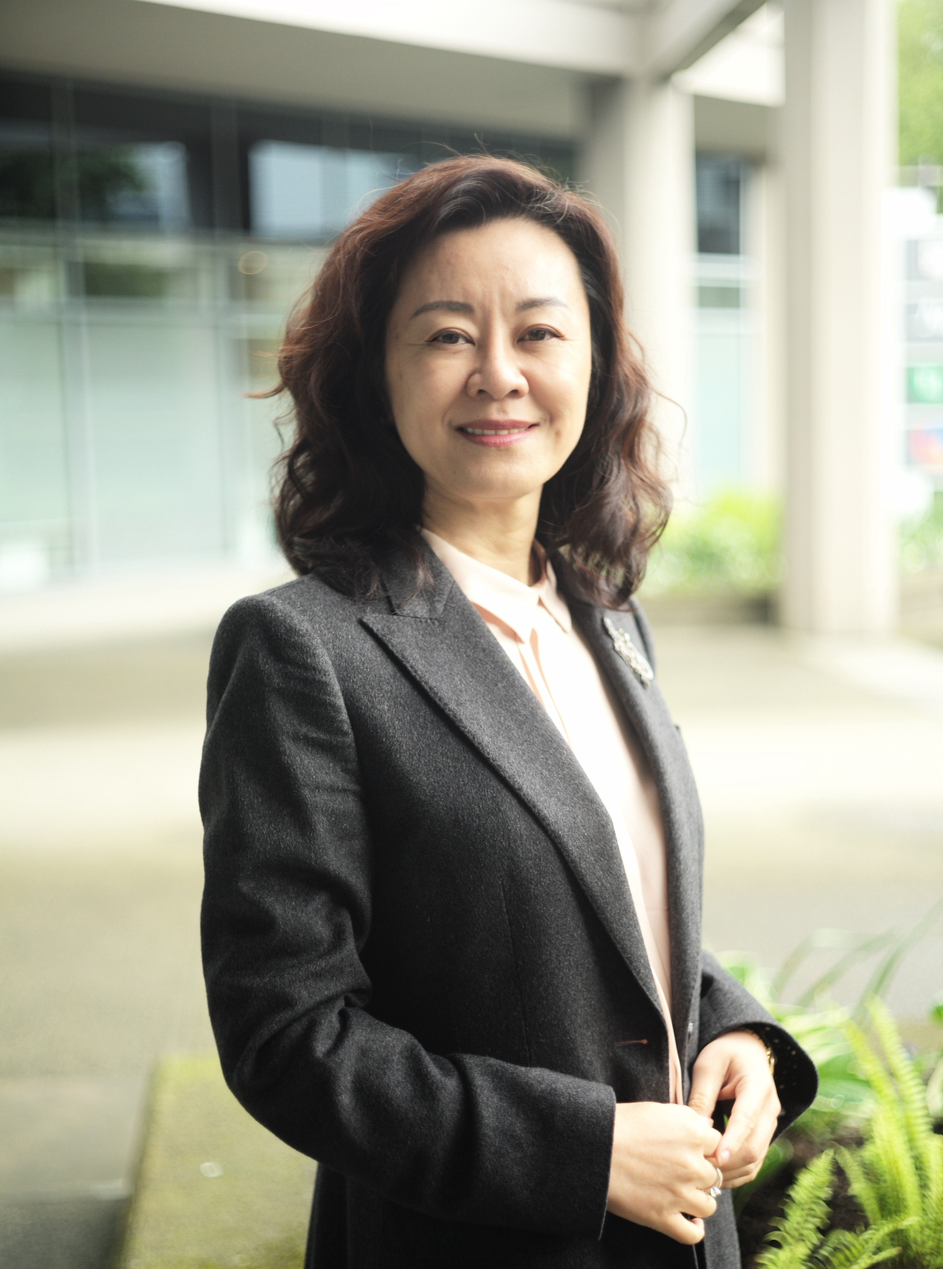
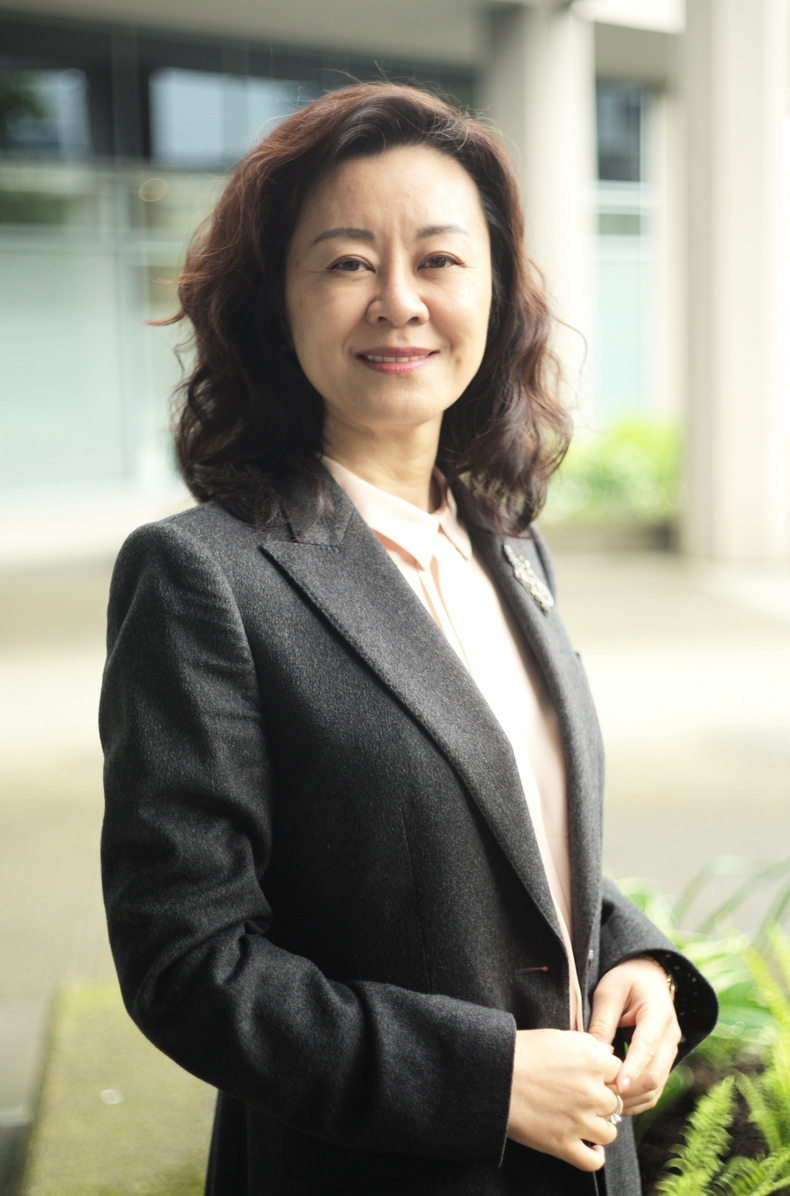
updated members' pictures size

diff --git a/src/components/TeamPage.tsx b/src/components/TeamPage.tsx
@@ -24,7 +24,7 @@ export default function TeamPage() {
     { id: 1, nameKey: "team.name.AdeleSun", image: "/members/Adele1.JPG", titleKey: "team.title.AdeleSun", descriptionKey: "team.bio.AdeleSun" },
     { id: 2, nameKey: "team.name.DavidChen", image: "/members/2. David Chen.jpg", titleKey: "team.title.DavidChen", descriptionKey: "team.bio.DavidChen" },
     { id: 4, nameKey: "team.name.BrentDesruisseaux", image: "/members/3. Brent Desruisseaux.jpg", titleKey: "team.title.BrentDesruisseaux", descriptionKey: "team.bio.BrentDesruisseaux" },
-    { id: 3, nameKey: "team.name.AbielKwok", image: "/members/abiel.JPG", titleKey: "team.title.AbielKwok", descriptionKey: "" },
+    { id: 3, nameKey: "team.name.AbielKwok", image: "/members/abiel1.JPG", titleKey: "team.title.AbielKwok", descriptionKey: "" },
     { id: 5, nameKey: "team.name.CoreyPoon", image: "/members/4. Corey Poon.jpg", titleKey: "team.title.CoreyPoon", descriptionKey: "team.bio.CoreyPoon" },
     { id: 6, nameKey: "team.name.HowardQu", image: "/members/5. Howard Qu.jpg", titleKey: "team.title.HowardQu", descriptionKey: "team.bio.HowardQu" },
     { id: 7, nameKey: "team.name.FrejaLi", image: "/members/6. Freja Li.jpg", titleKey: "team.title.FrejaLi", descriptionKey: "team.bio.FrejaLi" },
